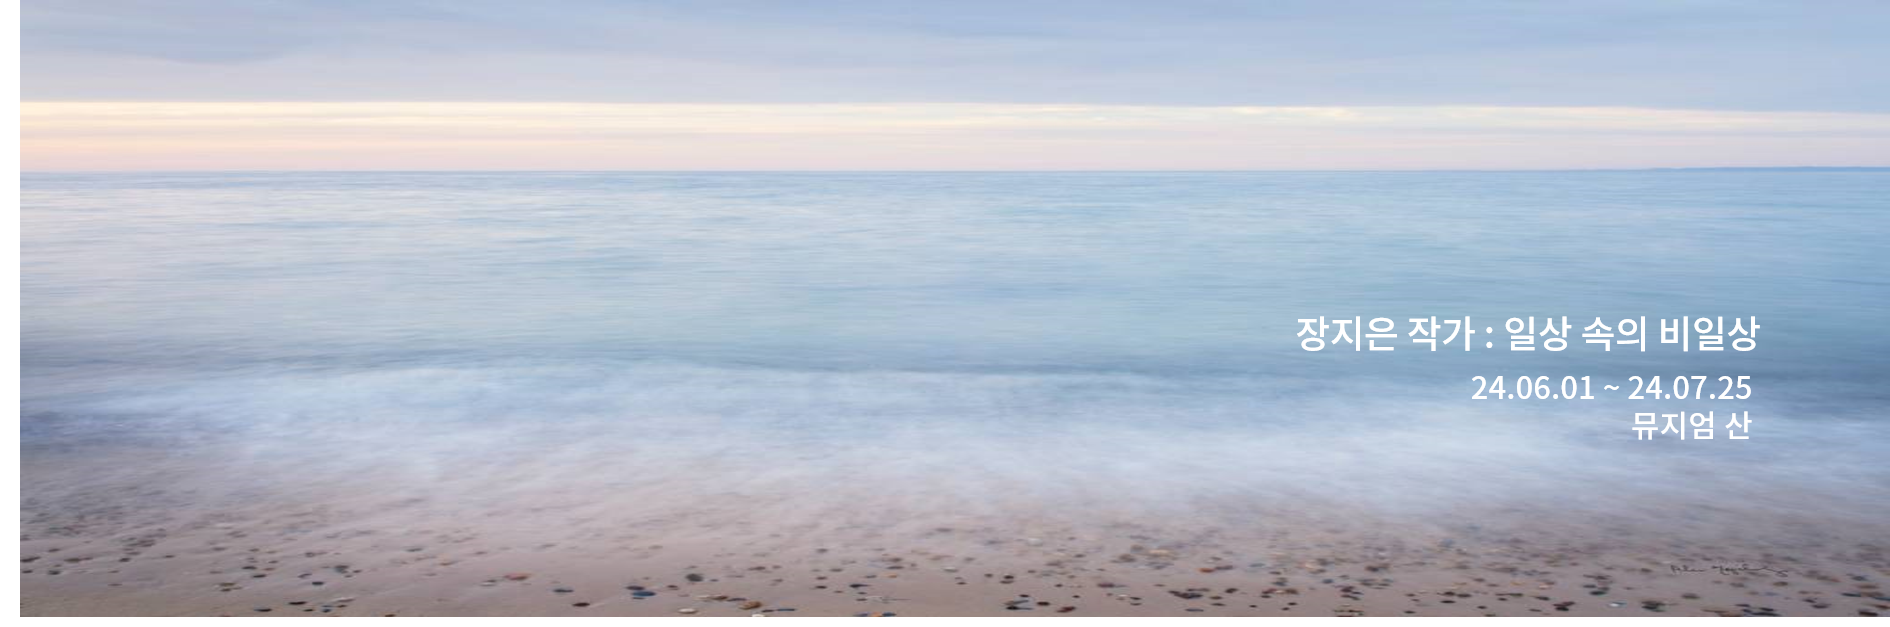
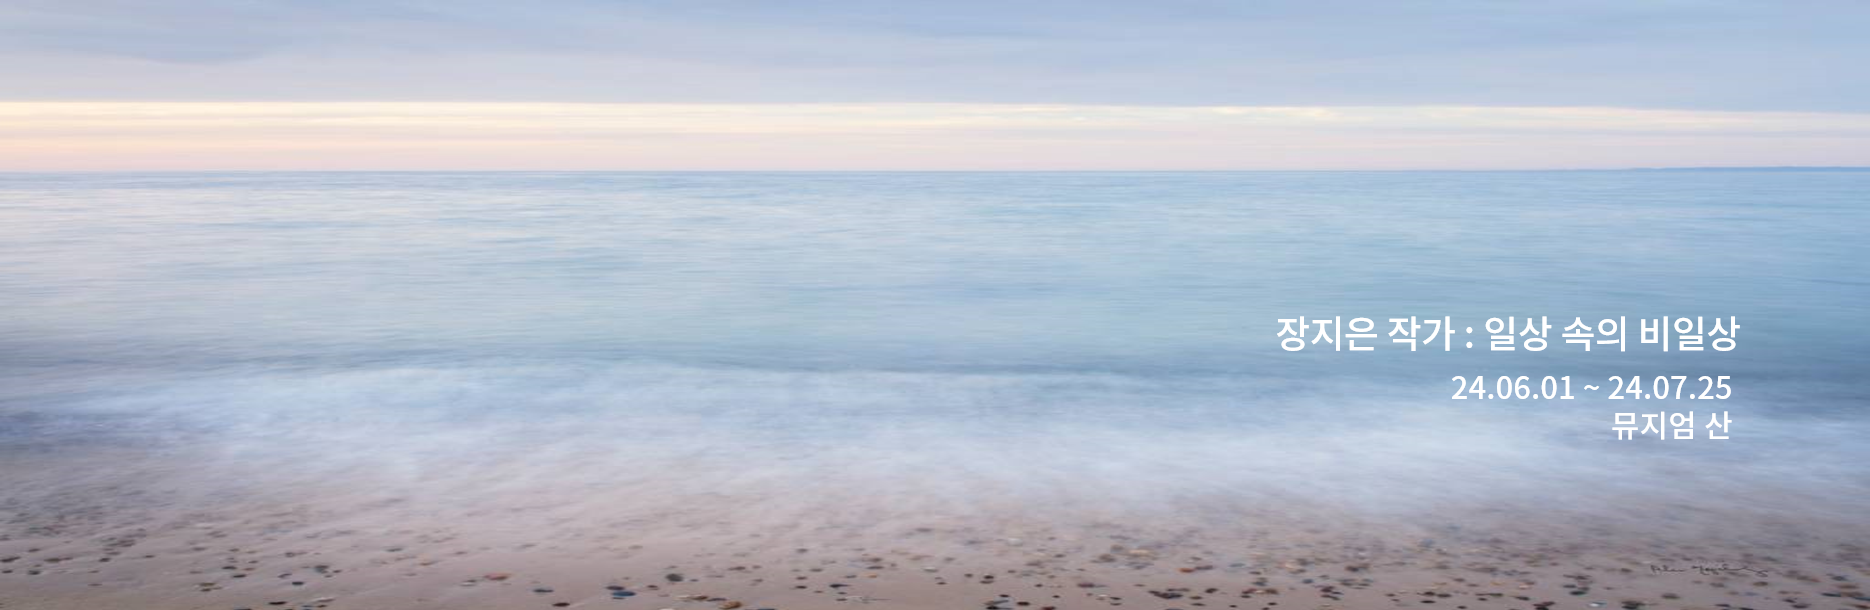
[Design] : 메인 캐로설 사진 변경

diff --git a/src/apis/space-api-manager.js b/src/apis/space-api-manager.js
@@ -3,7 +3,7 @@
 import axios from "axios";
 import { jsx } from "react/jsx-runtime";
 // 변수명 임시 지정
-const DOMAIN = "http://localhost:8080/api"; // TODO: 도메인 주소 확인 필요
+const DOMAIN = "https://www.wooriarte.store/api"; // TODO: 도메인 주소 확인 필요!!!!
 
 //?----------------------------- 공간대여자 url
 const LoginSpace_URL = () => `${DOMAIN}/space-rentals/login`; //! url수정 완

diff --git a/src/apis/matching-api-manager.js b/src/apis/matching-api-manager.js
@@ -3,7 +3,7 @@
 import axios from "axios";
 import { jsx } from "react/jsx-runtime";
 // 변수명 임시 지정
-const DOMAIN = "http://localhost:8080/api"; // TODO: 도메인 주소 확인 필요
+const DOMAIN = "https://www.wooriarte.store/api"; // TODO: 도메인 주소 확인 필요!!!!
 
 //?------------------------------ 작가/ 스페이스 매칭 수락/거절
 const MatchingAccDeny_URL = ({ matchingId }) =>

diff --git a/src/apis/api-manger.js b/src/apis/api-manger.js
@@ -1,7 +1,7 @@
 import axios from "axios";
 import { jsx } from "react/jsx-runtime";
 // 변수명 임시 지정
-const DOMAIN = "http://localhost:8080/api"; // TODO: 도메인 주소 확인 필요
+const DOMAIN = "https://www.wooriarte.store/api"; // TODO: 도메인 주소 확인 필요!!!!
 
 //?----------------------------- 유저 url
 const LoginSpace_URL = () => `${DOMAIN}/users/login`; //! 로그인 수정완

diff --git a/src/libs/CustomeCarouselForMain.js b/src/libs/CustomeCarouselForMain.js
@@ -57,7 +57,7 @@ function CustomCarouselForMain({ children }) {
       className="container__sliderForMain"
       onMouseEnter={AutoPlayStop}
       onMouseLeave={AutoPlayStart}
-      style={{ height: 296 }} // 높이를 80%로 설정
+      style={{ height: 324 }} // 높이를 80%로 설정
     >
       {children.map((item, index) => {
         return (

diff --git a/src/apis/author-api-manager.js b/src/apis/author-api-manager.js
@@ -3,7 +3,7 @@
 import axios from "axios";
 import { jsx } from "react/jsx-runtime";
 // 변수명 임시 지정
-const DOMAIN = "http://localhost:8080/api"; // TODO: 도메인 주소 확인 필요
+const DOMAIN = "https://www.wooriarte.store/api"; // TODO: 도메인 주소 확인 필요!!!!
 
 //?----------------------------- 작가 url
 // 로그인

diff --git a/src/apis/admin-api-manager.js b/src/apis/admin-api-manager.js
@@ -1,7 +1,7 @@
 import axios from "axios";
 import { jsx } from "react/jsx-runtime";
 // 변수명 임시 지정
-const DOMAIN = "http://localhost:8080/api"; // TODO: 도메인 주소 확인 필요
+const DOMAIN = "https://www.wooriarte.store/api"; // TODO: 도메인 주소 확인 필요!!!!
 
 //!--------------api
 // 모든 매칭 조회
